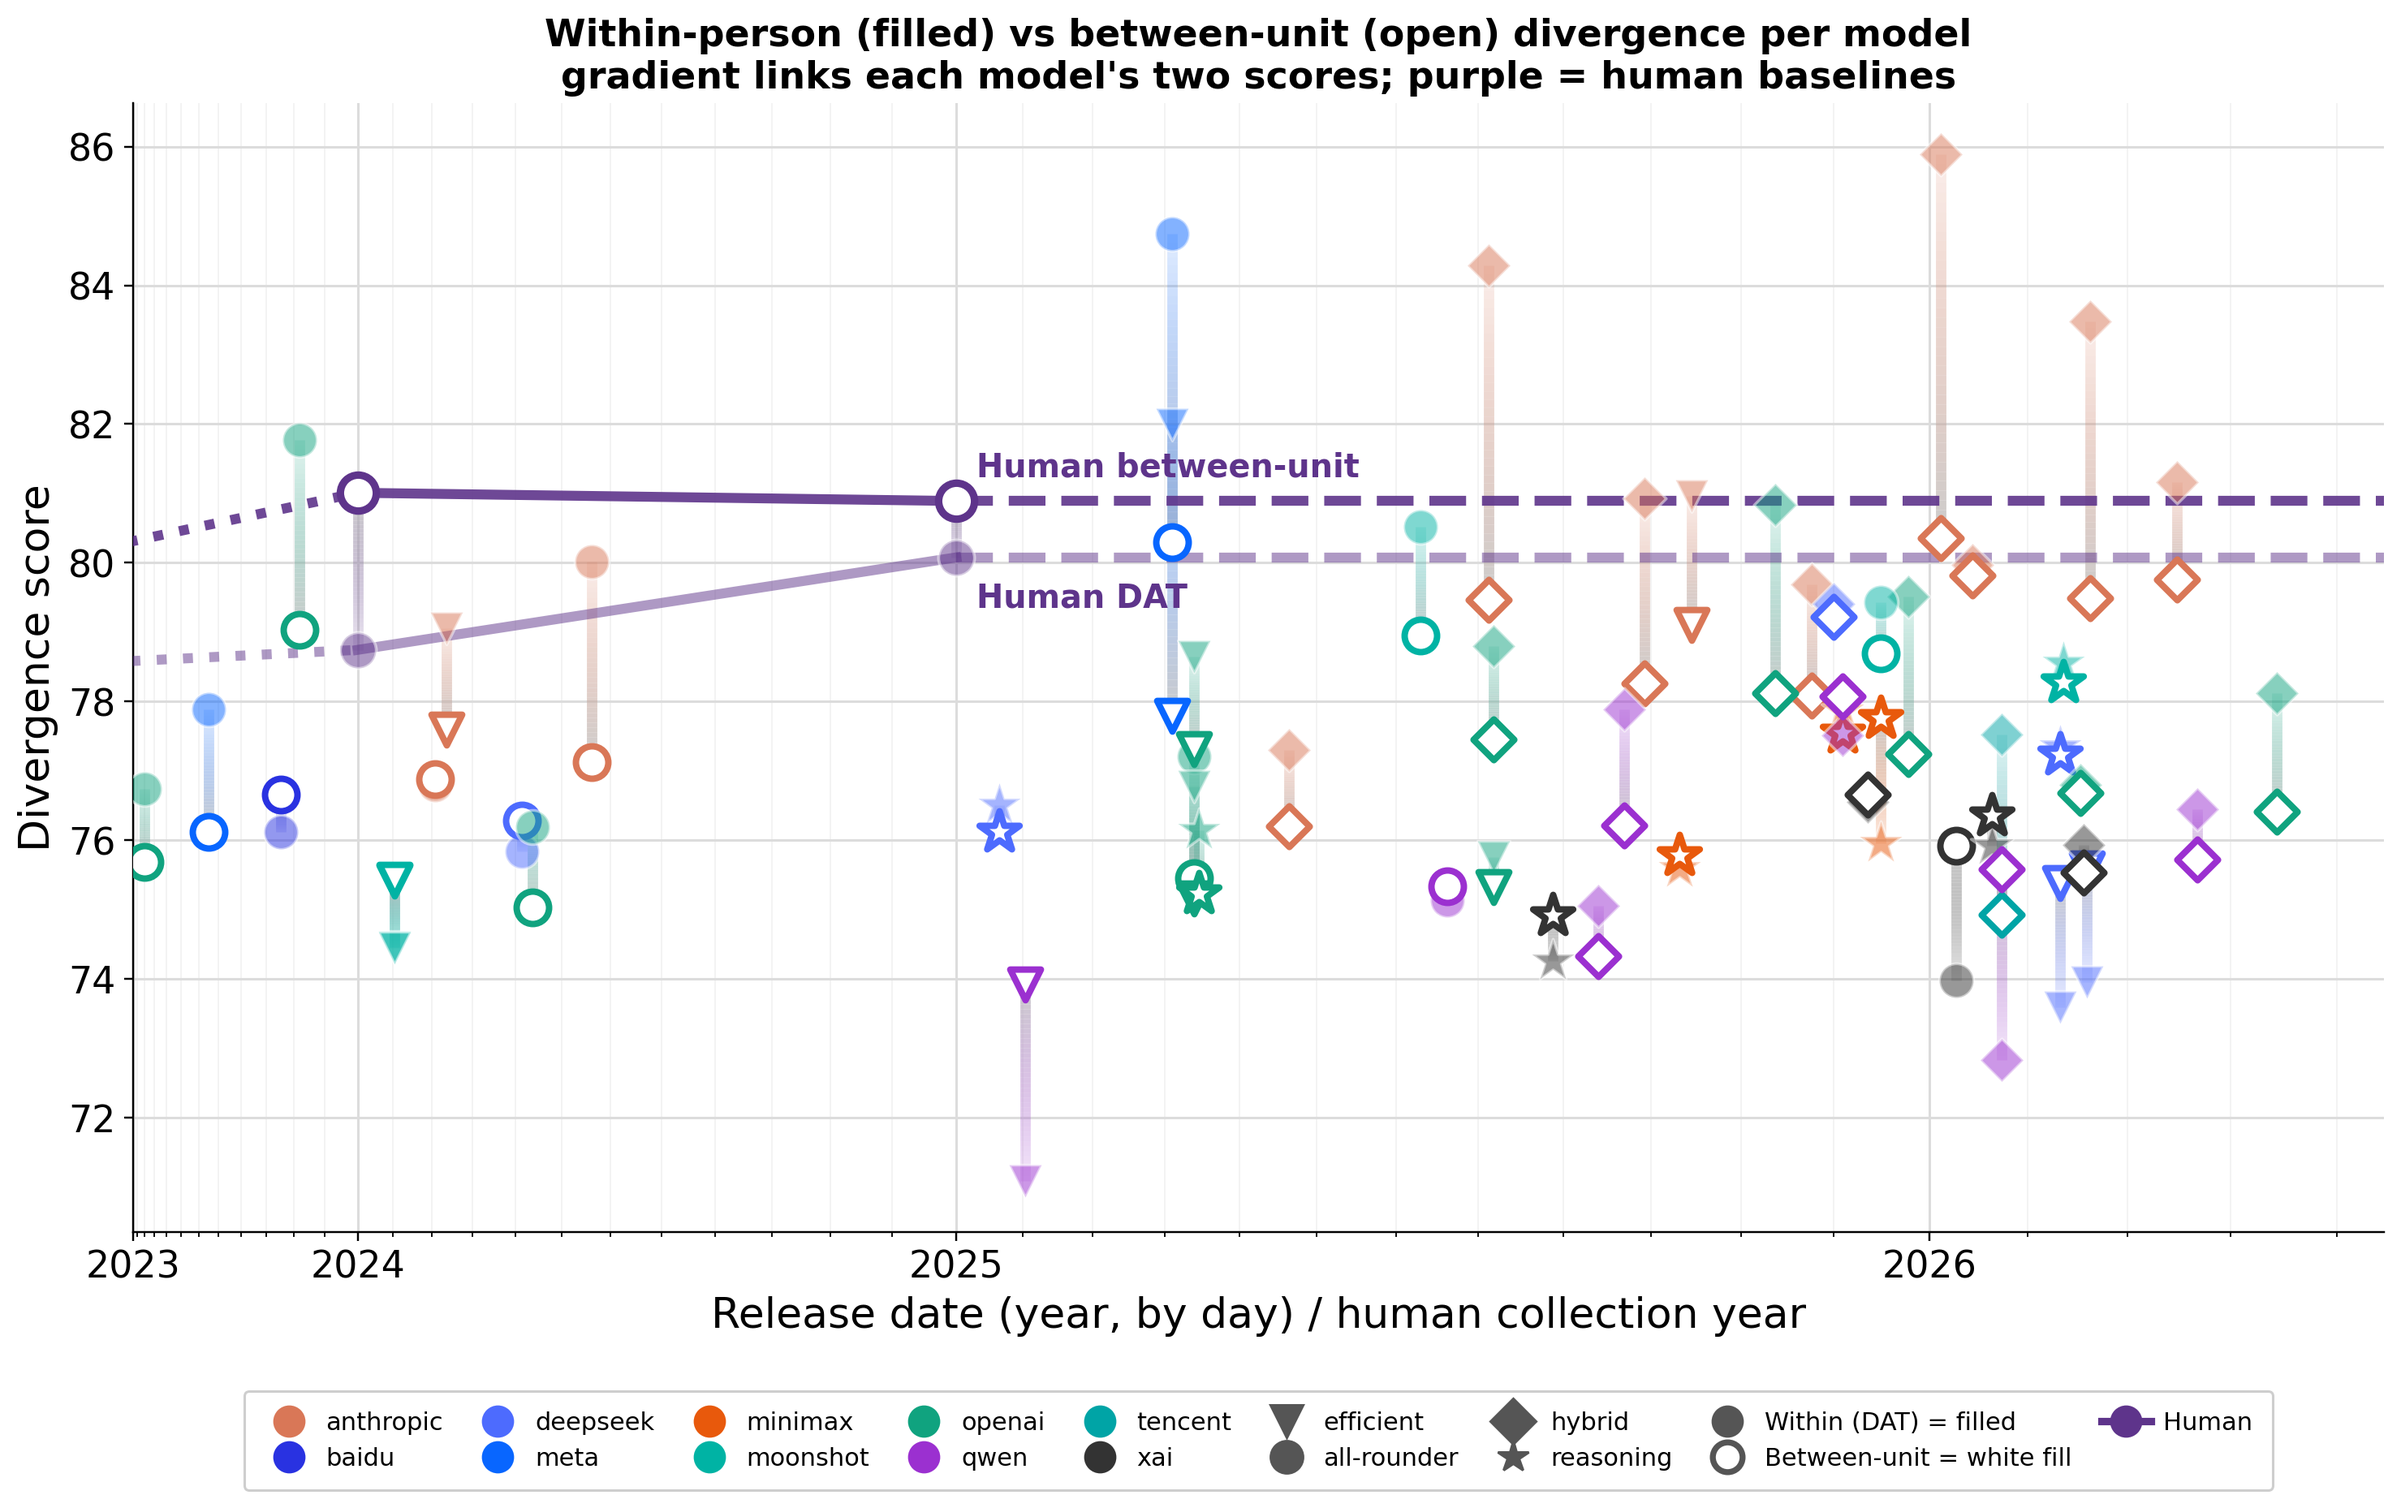
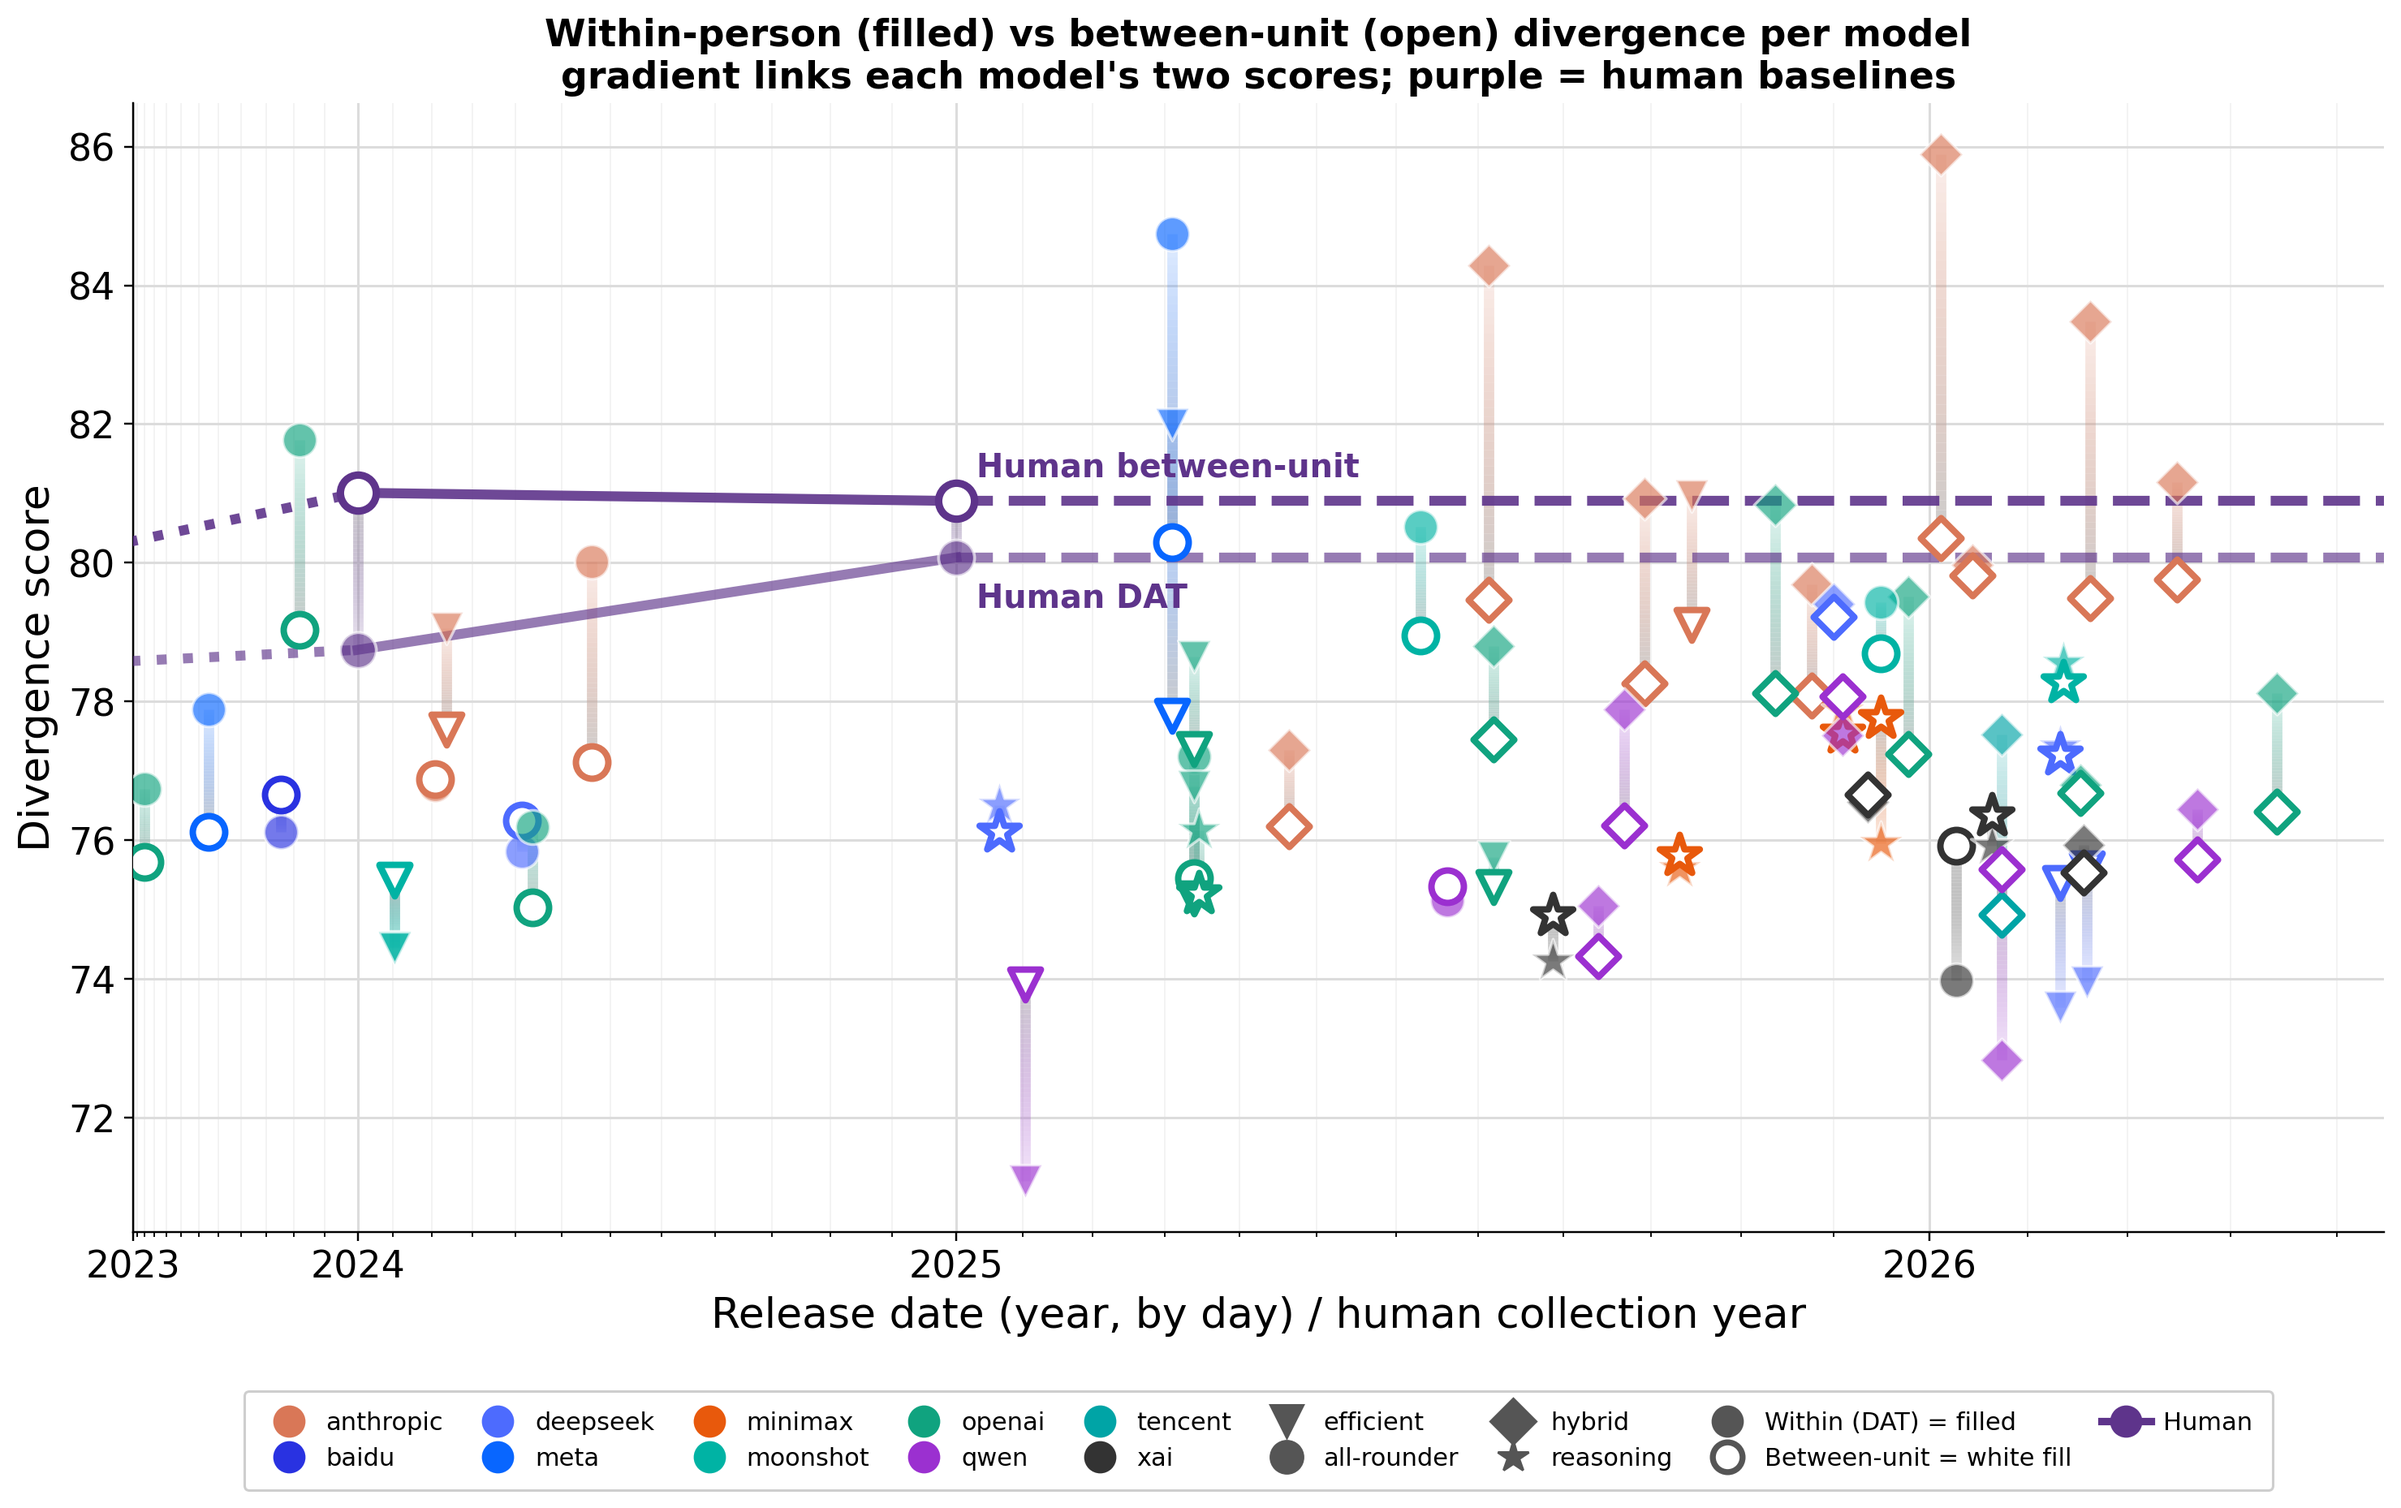
Overlay: change 50% opacity elements to 35% transparency (alpha 0.65) across DAT circles + human DAT baseline

diff --git a/analysis/within_vs_between_overlay_plot.py b/analysis/within_vs_between_overlay_plot.py
@@ -47,7 +47,7 @@ for m in models:
 # markers on top: filled = DAT, open thick = between
 for m in models:
     x=dat[m][0]; p=dat[m][4]; intel=dat[m][5]; col=PROV_COLOR.get(p,'#888')
-    ax.scatter(tx(x),dat[m][7],marker=MARK[intel],s=SIZE[intel],color=col,alpha=0.50,zorder=6,edgecolors='white',linewidths=1.1)
+    ax.scatter(tx(x),dat[m][7],marker=MARK[intel],s=SIZE[intel],color=col,alpha=0.65,zorder=6,edgecolors='white',linewidths=1.1)
     ax.scatter(tx(x),btw[m][7],marker=MARK[intel],s=SIZE[intel]*0.9,facecolors='white',edgecolors=col,linewidths=2.6,zorder=6)
 # human baselines: DAT filled dashed, between open dashed
 def human_line(hy,style,fillopen,line_alpha):
@@ -56,9 +56,9 @@ def human_line(hy,style,fillopen,line_alpha):
     ax.plot([tx(2024),tx(2025)],[hy[2024],hy[2025]],'-',color=HUMAN_PURPLE,lw=4,zorder=5,alpha=line_alpha)
     ax.plot([tx(2025),tx(xmax)],[hy[2025],hy[2025]],'--',color=HUMAN_PURPLE,lw=4,zorder=5,alpha=line_alpha)
     for y in hx:
-        if fillopen=='fill': ax.scatter(tx(y),hy[y],marker='o',s=210,color=HUMAN_PURPLE,alpha=0.50,zorder=7,edgecolors='white',linewidths=1.2)
+        if fillopen=='fill': ax.scatter(tx(y),hy[y],marker='o',s=210,color=HUMAN_PURPLE,alpha=0.65,zorder=7,edgecolors='white',linewidths=1.2)
         else: ax.scatter(tx(y),hy[y],marker='o',s=210,facecolors='white',edgecolors=HUMAN_PURPLE,linewidths=3,zorder=7)
-human_line(dat_hy,'-','fill',0.50)   # DAT baseline: 50% transparent, matches its dots
+human_line(dat_hy,'-','fill',0.65)   # DAT baseline: 35% transparent, matches its dots
 human_line(btw_hy,'--','open',0.90)  # between-unit baseline: strong, matches white-fill dots
 # human connectors: same gradient pattern as models (faded at DAT end -> strong at between end)
 for _y in sorted(set(dat_hy)&set(btw_hy)):
